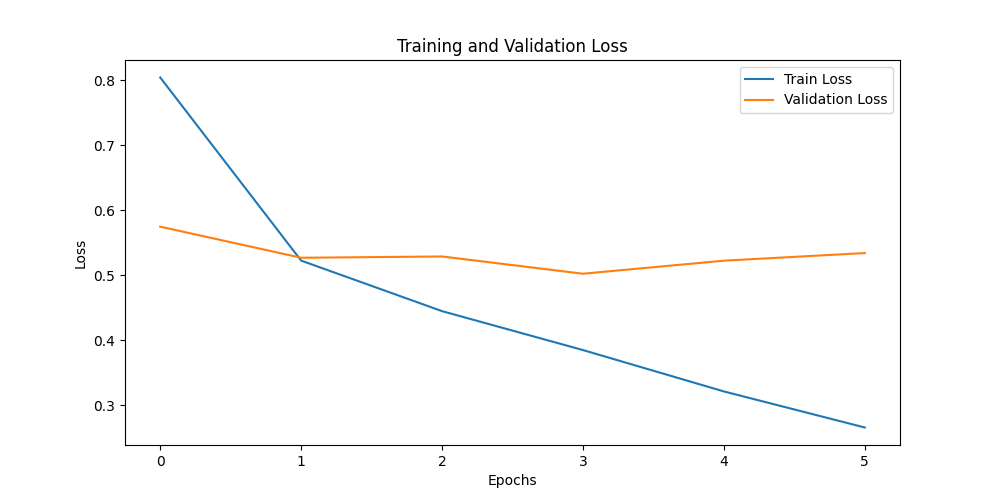
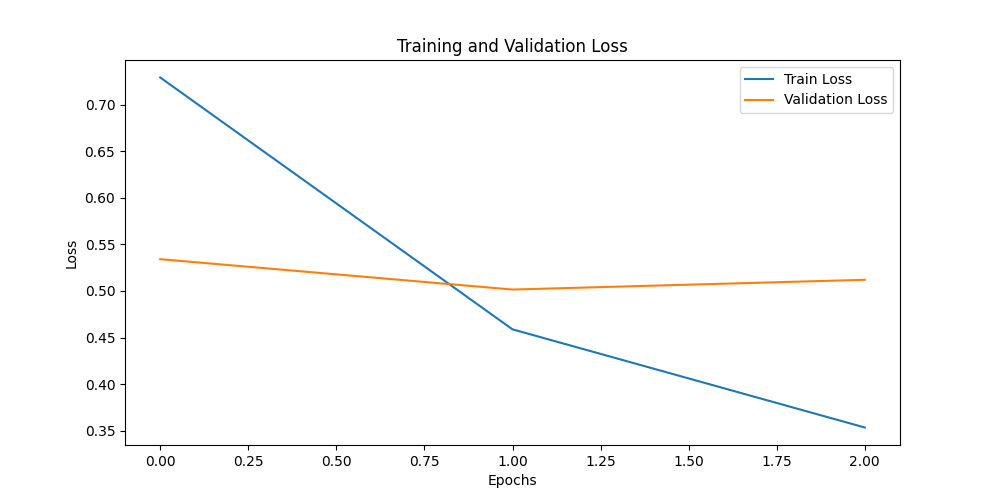
/

diff --git a/Source/Ticket-Classification/LLM-models/RBRight.py b/Source/Ticket-Classification/LLM-models/RBRight.py
@@ -3,8 +3,12 @@ from matplotlib import pyplot as plt
 import numpy as np
 import torch
 import pandas as pd
-from transformers import RobertaTokenizer, RobertaForSequenceClassification
+from transformers import RobertaTokenizer, RobertaForSequenceClassification, get_linear_schedule_with_warmup
 from sklearn.model_selection import train_test_split
+from torch.nn.utils import clip_grad_norm_
+from torch.utils.data import DataLoader, TensorDataset, RandomSampler, SequentialSampler
+from sklearn.feature_extraction.text import TfidfVectorizer
+from imblearn.over_sampling import SMOTE
 
 
 print("Roberta Model")
@@ -21,9 +25,24 @@ tokenizer = RobertaTokenizer.from_pretrained('roberta-base', do_lower_case=True)
 ticket_data = df['complaint_what_happened_basic_clean_LMM']
 label_data = df['category_encoded']
 
-# Split the dataset into training, validation, and testing sets
+
+# Split data
 t_texts, test_texts, t_labels, test_labels = train_test_split(ticket_data, label_data, test_size=0.3, random_state=42, shuffle=True)
 train_texts, val_texts, train_labels, val_labels = train_test_split(t_texts, t_labels, test_size=0.1, random_state=42, shuffle=True)
+
+# Convert text data to TF-IDF features
+vectorizer = TfidfVectorizer(max_features=5000)
+train_tfidf = vectorizer.fit_transform(train_texts)
+
+# Apply SMOTE to oversample the minority classes
+smote = SMOTE(random_state=42)
+train_tfidf_resampled, train_labels_resampled = smote.fit_resample(train_tfidf, train_labels)
+
+# Convert TF-IDF matrix back to text for tokenization
+train_texts_resampled = vectorizer.inverse_transform(train_tfidf_resampled)
+train_texts_resampled = [" ".join(text) for text in train_texts_resampled] # type: ignore
+
+
 
 # Encode the data
 train_encoded = tokenizer.batch_encode_plus(
@@ -55,12 +74,12 @@ test_encoded = tokenizer.batch_encode_plus(
 )
 
 
-print(train_labels)
+print(train_labels_resampled)
 
 # Prepare training, validation, and testing data
 train_input_ids = train_encoded['input_ids']
 train_attention_masks = train_encoded['attention_mask']
-train_labels = torch.tensor(train_labels.astype(int).values, dtype=torch.long)
+train_labels = torch.tensor(train_labels_resampled.astype(int).values, dtype=torch.long)
 
 val_input_ids = val_encoded['input_ids']
 val_attention_masks = val_encoded['attention_mask']
@@ -81,14 +100,18 @@ optimizer = torch.optim.AdamW(model.parameters(), lr=2e-5)
 # Create DataLoader for batch processing
 from torch.utils.data import DataLoader, TensorDataset
 
+# Create DataLoader for batch processing
 train_dataset = TensorDataset(train_input_ids, train_attention_masks, train_labels)
-train_dataloader = DataLoader(train_dataset, batch_size=batch_size, shuffle=True)
+train_dataloader = DataLoader(train_dataset, sampler=RandomSampler(train_dataset), batch_size=batch_size)
 
 val_dataset = TensorDataset(val_input_ids, val_attention_masks, val_labels)
-val_dataloader = DataLoader(val_dataset, batch_size=batch_size, shuffle=False)
+val_dataloader = DataLoader(val_dataset, sampler=SequentialSampler(val_dataset), batch_size=batch_size)
 
 test_dataset = TensorDataset(test_input_ids, test_attention_masks, test_labels)
-test_dataloader = DataLoader(test_dataset, batch_size=batch_size, shuffle=False)
+test_dataloader = DataLoader(test_dataset, sampler=SequentialSampler(test_dataset), batch_size=batch_size)
+
+total_steps = len(train_dataloader) * epochs
+scheduler = get_linear_schedule_with_warmup(optimizer, num_warmup_steps=0, num_training_steps=total_steps)
 
 train_losses = []
 val_losses = []
@@ -117,7 +140,9 @@ for epoch in range(epochs):
         total_loss += loss.item()
         train_accuracy += calculate_accuracy(outputs.logits, b_labels).item()
         loss.backward()
+        clip_grad_norm_(model.parameters(), 1.0)
         optimizer.step()
+        scheduler.step() # type: ignore
     avg_loss = total_loss / len(train_dataloader)
     avg_train_accuracy = train_accuracy / len(train_dataloader)
     train_losses.append(avg_loss)

diff --git a/Source/Ticket-Classification/DL-models/HNN.py b/Source/Ticket-Classification/DL-models/HNN.py
@@ -2,14 +2,14 @@ from matplotlib import pyplot as plt
 from sklearn.model_selection import train_test_split
 import numpy as np
 from tensorflow.keras.models import Sequential
-from tensorflow.keras.layers import Conv1D, GlobalMaxPooling1D, Dense, Dropout, Bidirectional, LSTM
-from tensorflow.keras.callbacks import EarlyStopping, ReduceLROnPlateau
+from tensorflow.keras.layers import Conv1D, GlobalMaxPooling1D, Dense, Dropout, Bidirectional, LSTM, BatchNormalization
+from tensorflow.keras.callbacks import EarlyStopping, ReduceLROnPlateau, ModelCheckpoint
+from tensorflow.keras.regularizers import l2
 
 import sys
 import os
 
 print("HNN model")
-
 
 # Get the absolute path of the directory containing other_script.py
 other_directory_path = os.path.abspath('/home/users/elicina/Master-Thesis/Source/Ticket-Classification')
@@ -21,7 +21,6 @@ sys.path.append(other_directory_path)
 import Tokenization 
 from Tokenization import *
 
-
 X_train, X_val, Y_train, Y_val = train_test_split(train_embeddings, train_labels, test_size=0.2, random_state=42, shuffle=True)
 
 train_embeddings_resampled, train_labels_resampled_w2v = smote.fit_resample(X_train, Y_train) # type: ignore
@@ -31,26 +30,24 @@ train_embeddings_resampled = train_embeddings_resampled.reshape(train_embeddings
 X_val = X_val.reshape(X_val.shape[0], X_val.shape[1], 1)
 test_embeddings = test_embeddings.reshape(test_embeddings.shape[0], test_embeddings.shape[1], 1)
 
-
 # Create the model
 model = Sequential()
 
 model.add(Conv1D(filters=128, kernel_size=5, activation='relu', input_shape=(train_embeddings_resampled.shape[1], 1)))
+model.add(BatchNormalization())
 
 model.add(Bidirectional(LSTM(units=128, return_sequences=True)))
+model.add(BatchNormalization())
 
-# Sentence-level context encoder (another Bidirectional LSTM)
 model.add(Bidirectional(LSTM(units=128, return_sequences=True)))
+model.add(BatchNormalization())
 
-# Global pooling layer
 model.add(GlobalMaxPooling1D())
 
-# Dense layer
-model.add(Dense(units=128, activation='relu'))
-
+model.add(Dense(units=128, activation='relu', kernel_regularizer=l2(0.01)))
 model.add(Dropout(rate=0.5))
+model.add(BatchNormalization())
 
-# Output layer
 model.add(Dense(5, activation='softmax'))
 model.add(Dropout(rate=0.5))
 
@@ -63,11 +60,11 @@ model.summary()
 # Define callbacks
 early_stopping = EarlyStopping(monitor='val_loss', patience=10, restore_best_weights=True)
 reduce_lr = ReduceLROnPlateau(monitor='val_loss', factor=0.2, patience=5, min_lr=0.0001)
+model_checkpoint = ModelCheckpoint('best_model.h5', monitor='val_loss', save_best_only=True)
 
 # Train the model
 history = model.fit(train_embeddings_resampled, train_labels_resampled_w2v, epochs=50, batch_size=64, 
-          validation_data=(X_val, Y_val), callbacks=[early_stopping, reduce_lr]) 
-
+          validation_data=(X_val, Y_val), callbacks=[early_stopping, reduce_lr, model_checkpoint])
 
 # Evaluate the model on the test data
 test_loss, test_accuracy = model.evaluate(test_embeddings, test_labels)
